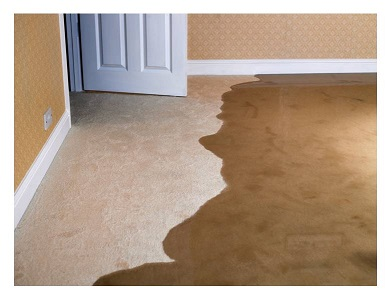
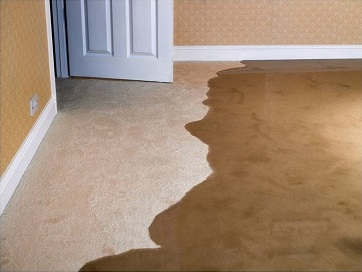
Cleaned up images, fixed "sofancy" class w/border.

diff --git a/flood_restoration.php b/flood_restoration.php
@@ -16,30 +16,15 @@
 	<link rel="icon" type="image/ico" href="img/favicon.ico">
 
 	
-	<script type="text/javascript" src="js/jquery.plugin.js"></script> 
-	<script type="text/javascript" src="js/jquery.imagecube.js"></script>
-	<script>
-	$('#defaultCube').imagecube(); 
-		 
-		$('#stopCube').toggle(function() { 
-				$(this).text('Start'); 
-				$('#defaultCube').imagecube('stop'); 
-			}, function() { 
-				$(this).text('Stop'); 
-				$('#defaultCube').imagecube('start'); 
-			} 
-		); 
-		 
-		$('#removeCube').toggle(function() { 
-				$(this).text('Re-attach'); 
-				$('#defaultCube').imagecube('destroy'); 
-			}, 
-			function() { 
-				$(this).text('Remove'); 
-				$('#defaultCube').imagecube(); 
-			} 
-		);
-  </script>
+	<!--FancyBox -->
+	<script type="text/javascript" src="js/jquery.mousewheel-3.0.6.pack.js"></script>
+	<link rel="stylesheet" href="css/jquery.fancybox.css" type="text/css" media="screen"/>
+	<script type="text/javascript" src="js/jquery.fancybox.pack.js"></script>
+	<link rel="stylesheet" href="css/jquery.fancybox-buttons.css" type="text/css" media="screen" />
+	<script type="text/javascript" src="js/jquery.fancybox-buttons.js"></script>
+	<script type="text/javascript" src="js/jquery.fancybox-media.js"></script>
+	<link rel="stylesheet" href="css/jquery.fancybox-thumbs.css" type="text/css" media="screen" />
+	<script type="text/javascript" src="js/jquery.fancybox-thumbs.js"></script>
 
 	<!-- Fonts -->
 	<link href='http://fonts.googleapis.com/css?family=Lora' rel='stylesheet' type='text/css'>
@@ -53,6 +38,16 @@ body
 {
 	color: #333;
 }
+.sofancy
+{
+	 display: inline-block;
+    margin-left: auto;
+    margin-right: auto;
+	margin-top:5%;
+	padding: 1px;
+	border: 1px solid #021a40;
+	margin: 2%;
+}
 </style>
 
 	<title>J&amp;J Flooring - Flood Restoration</title>
@@ -62,7 +57,7 @@ body
 <?php include('php/navbar.php'); ?>
 
 <div class="container">
-	<h1>Flood Restoration</h1>
+	<h1><div class="background_text">Flood Restoration</div></h1>
 	<div class="container" style="background-color:bisque;">
 			<div class="text-left" style="padding: 40px;">
 			<p>
@@ -78,19 +73,19 @@ body
 			<p class="text-left text-danger">For your convenience and at no extra cost,
 				we have <u><a href="contact_us.php">an emergency hotline</a></u> you can call for immediate services.</p>
 			</div>
-		<div class="container" style="margin-left:25%; padding-bottom:20px;">
-			<div id="defaultCube" style="width: 50%; height: 50%;"> 
-				<img src="img/flood-restoration-1.jpg" alt="Floor 1"/> 
-				<img src="img/flood-restoration-2.jpg" alt="Floor 2"/> 
-			</div>
+		<div class="container">
+			<a class="fancybox" rel="group" href="img/flood-restoration-1-big.jpg"><img class="img-responsive sofancy" src="img/flood-restoration-1.jpg" alt=""/></a>
+			<a class="fancybox" rel="group" href="img/flood-restoration-2-big.jpg"><img class="img-responsive sofancy" src="img/flood-restoration-2.jpg" alt=""/></a>
 		</div>
+		
 	
 </div>
 
 
 <?php include ('php/footer.php'); ?>
-<script>
-$("#defaultCube").imagecube();
-$("#defaultCube").imagecube({speed: 1000});
+<script type="text/javascript">
+	$(document).ready(function() {
+		$(".fancybox").fancybox();
+	});
 </script>
 </body>

diff --git a/fire_restoration.php b/fire_restoration.php
@@ -48,13 +48,17 @@ body
 	 display: inline-block;
     margin-left: auto;
     margin-right: auto;
+	margin-top:5%;
+	padding: 1px;
+	border: 1px solid #021a40;
+	margin: 2%;
 }
 </style>
 <body>
 <?php include('php/navbar.php'); ?>
 
 <div class="container">
-	<h1>Fire Restoration</h1>
+	<h1><div class="background_text">Fire Restoration</div></h1>
 	<div class="container" style="background-color:bisque;">
 			<div class="text-left" style="padding: 40px;">
 			<p>

diff --git a/flooring.php b/flooring.php
@@ -47,6 +47,9 @@ body
     margin-left: auto;
     margin-right: auto;
 	margin-top:5%;
+	padding: 1px;
+	border: 1px solid #021a40;
+	margin: 2%;
 }
 </style>
 <body>
